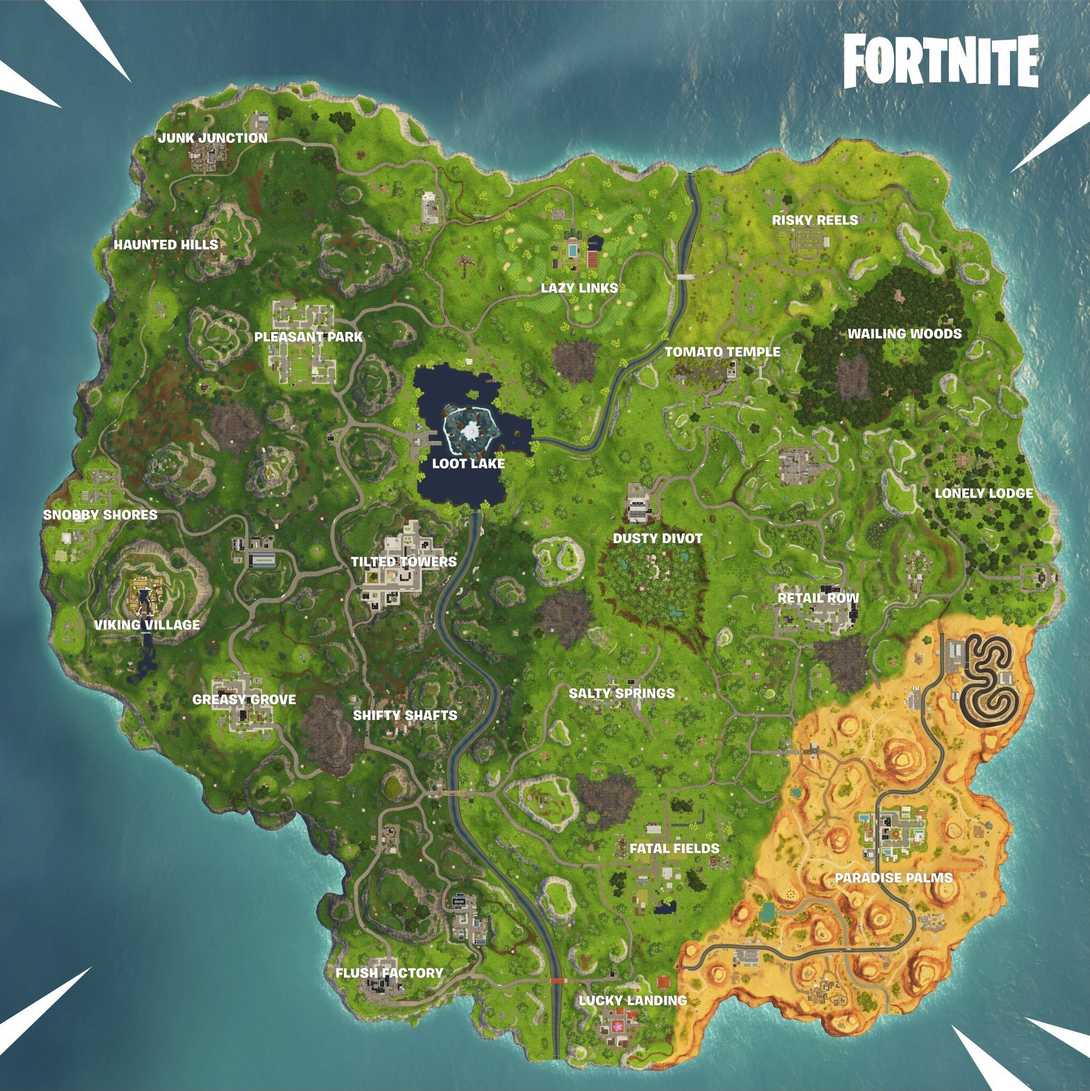
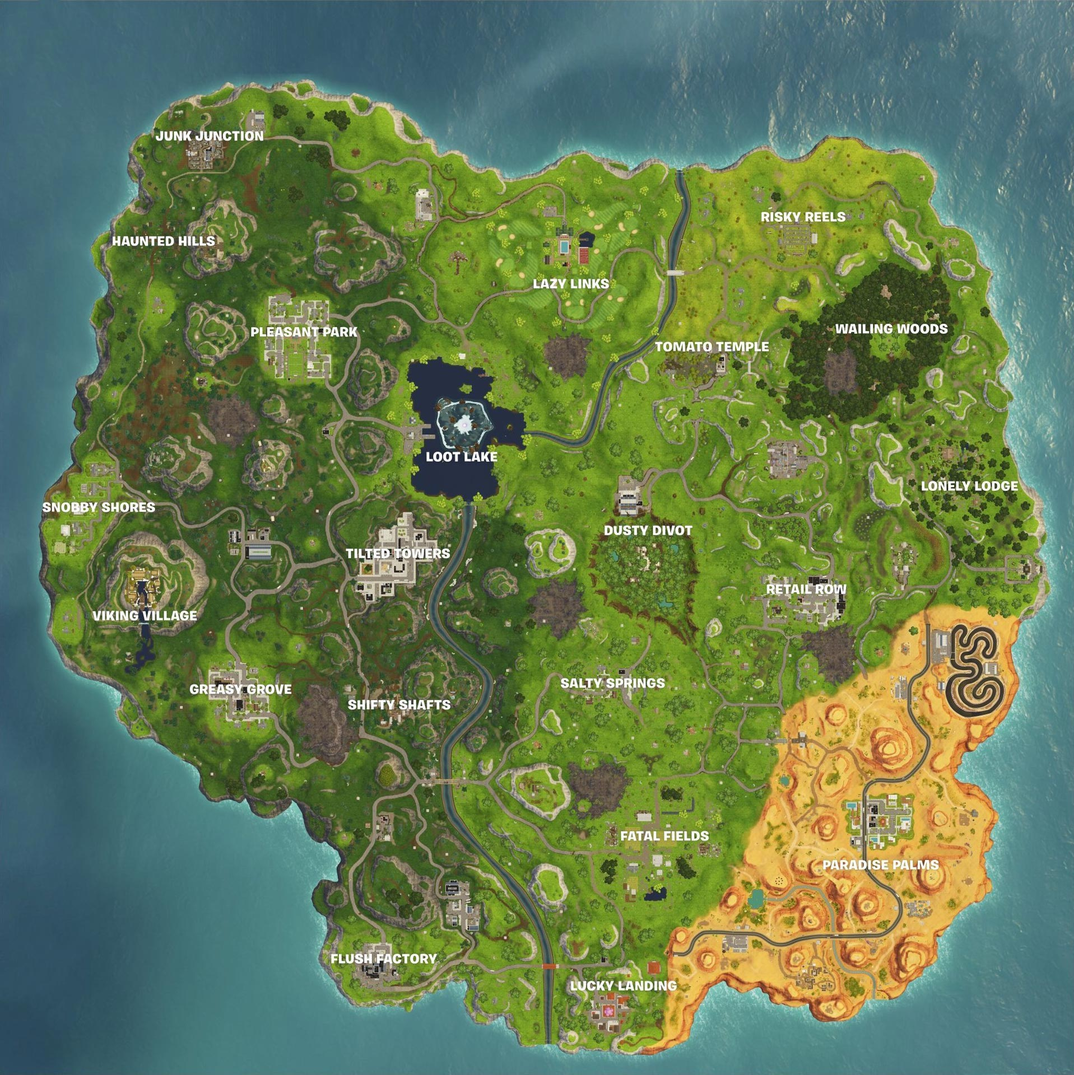
updated map to season 7

diff --git a/client/src/components/Map/StaticMap.js b/client/src/components/Map/StaticMap.js
@@ -1,7 +1,6 @@
 import React from 'react';
 import './Map.scss';
-// import mapImg from '../../static/fortnite-map-s6.jpg';
-import mapImg from '../../static/fortnite-map-q5-1920.jpg';
+import mapImg from '../../static/fortnite-map-s7.jpg';
 
 const StaticMap = props => {
 	return (
@@ -9,7 +8,7 @@ const StaticMap = props => {
 			<img
 				className="map" 
 				src={mapImg} 
-				alt="Fortnite Map Season 6" 
+				alt="Fortnite Map Season 7" 
 			/>
 				{props.children}
 		</div>
